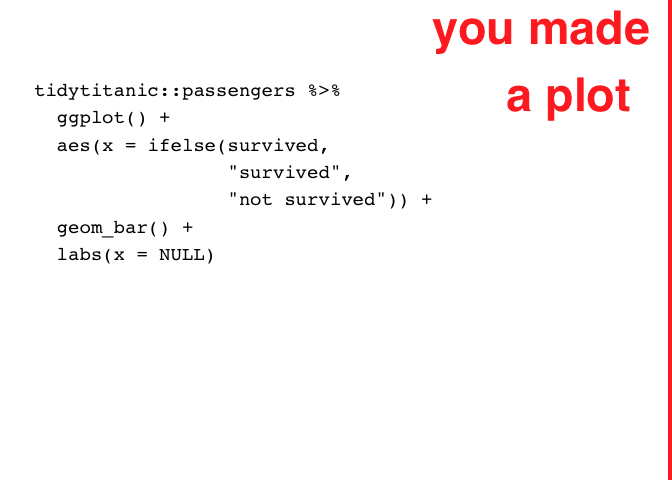
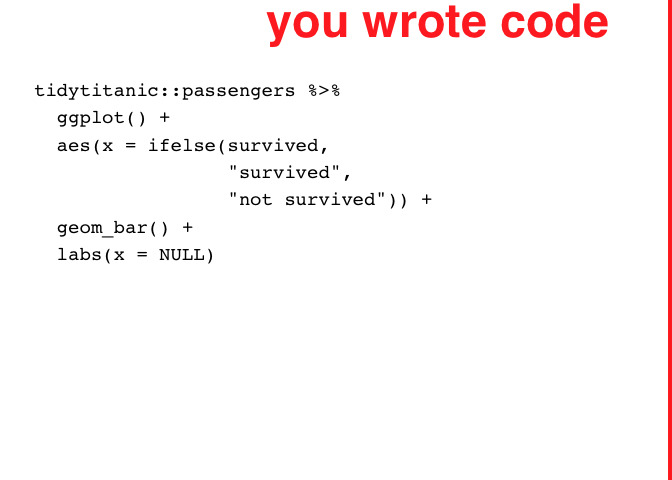
playing with judge_ouput but no dice

Changed region(s): [[0.375, 0.0, 0.9688, 0.125], [0.75, 0.1562, 0.9375, 0.25]]

diff --git a/README.md b/README.md
@@ -24,7 +24,7 @@ judge_plot <- function(p = NULL, color = "red", alpha =.9, label = "you made\na 
                   clip = clip) +
     cowplot::draw_text(paste0(label, "  "), x=1, y=1, vjust=1.1, hjust=1.1, size=35, angle = 0,
               color=color, alpha=alpha, family = family, fontface = fontface) +
-    cowplot::draw_line(c(1, 1), c(0, 1), size=2.8, color=color, alpha=alpha)
+    cowplot::draw_line(c(1, 1), c(0, 1), size= 2.8, color=color, alpha=alpha)
 }
 
 
@@ -87,7 +87,7 @@ ggplot2::ggplot(data = data.frame(x = c(0, 1), y = c(0,1))) +
   ggplot2::theme_void() ->
 syntax_plot
 
-syntax_plot %>% judge_plot(...)
+syntax_plot %>% judge_plot(label = label, ...)
   
 }
 
@@ -116,17 +116,32 @@ tidytitanic::passengers |>
 ```
 
 ``` r
+    knitr::knit_code$get(name = "test_chunk_2") |>  
+  paste(collapse = "\n") ->
+text
+
+
+text
+#> [1] "library(magrittr)\ntidytitanic::passengers |> \n  janitor::tabyl(sex, survived)"
+eval(parse(text = text))
+#>     sex   0   1
+#>  female 154 308
+#>    male 709 142
+
 {
+    knitr::knit_code$get(name = "test_chunk_2") |>  
+  paste(collapse = "\n") ->
+text
 sink("temp.txt")
-# knitr::knit_code$get(name = "test_chunk_2") %>% parse() %>% eval()
+eval(parse(text = text))
 sink()
 }
 
-{
-sink('temp.txt')
-print(1:10)
-sink()
-}
+# {
+# sink('temp.txt')
+# print(1:10)
+# sink()
+# }
 ```
 
 ``` r
@@ -134,6 +149,8 @@ readLines("temp.txt") %>%
   paste(collapse = "\n") ->
   text
 
+text
+#> [1] ""
 
 library(ggplot2)
 ggplot(data = data.frame(x = c(0, 1), y = c(0,1))) +
